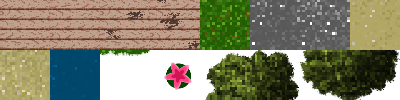
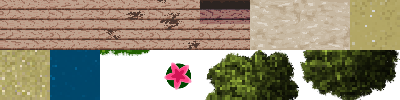
Inserito nuovo tilesheet, rimosso outline sui tile e settata risoluzione maggiore per i tile cambiando gridsize

Changed region(s): [[0.48, 0.0, 0.9, 0.51]]

diff --git a/Tile/Tile.cpp b/Tile/Tile.cpp
@@ -11,8 +11,6 @@ Tile::Tile(float x, float y, float gridSizeF, sf::Texture &texture, sf::Vector2f
     this->shape.setSize(sf::Vector2f(gridSizeF, gridSizeF));
     this->shape.setPosition(x, y);
     this->shape.setTexture(&texture);
-    this->shape.setOutlineColor(sf::Color::Black);
-    this->shape.setOutlineThickness(1.f);
     this->shape.setTextureRect(sf::IntRect(tileTexturePosition.x, tileTexturePosition.y, gridSizeF, gridSizeF));
 }
 

diff --git a/States/EditorState.cpp b/States/EditorState.cpp
@@ -103,7 +103,7 @@ void EditorState::updateButtons() {
 //Initializer Functions
 void EditorState::initVariables() {
     this->showTextureSelector = false;
-    this->tileTexturePath = "Resources/images/tiles/tilesheet1.png";
+    this->tileTexturePath = "Resources/images/tiles/nuovo_tilesheet.png";
     this->tileMap = new Tilemap("Resources/map/map.slmp");
 }
 

diff --git a/States/StateData.h b/States/StateData.h
@@ -16,5 +16,5 @@ struct StateData {
     std::map<std::string, int> *supportedKeys;
     sf::Font *font;
     GraphicsSettings *graphicsSettings;
-    float gridSize = 50.f;
+    float gridSize = 100.f;
 };
